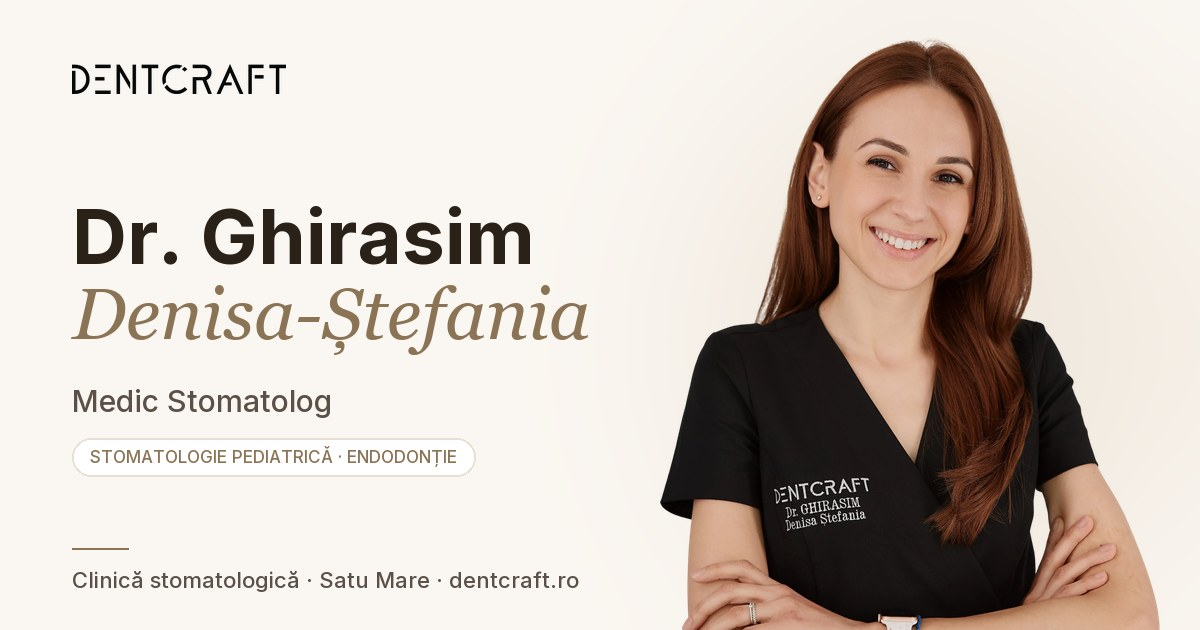
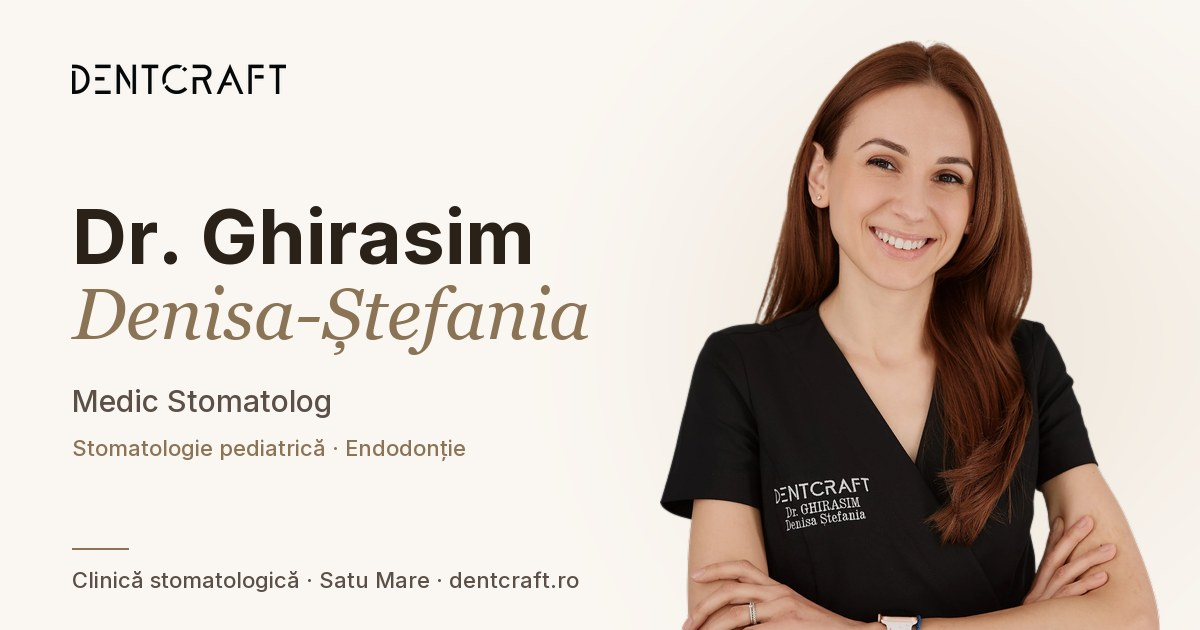
fix(og): cleaner team share cards, add Camelia Gherman
generate-team-og.py: resize cutouts in premultiplied alpha (no dark/light
fringe from transparent pixels), choke + sub-pixel feather the matte to
remove the pale halo of the old studio background, alpha_composite onto
the cream canvas. Specializations as a sentence-case line instead of an
uppercase pill. New card for camelia-gherman (cutout existed) and wired
via TEAM_OG_SLUGS.

Changed region(s): [[0.0617, 0.6937, 0.4008, 0.754]]

diff --git a/src/lib/fallback-team.ts b/src/lib/fallback-team.ts
@@ -41,6 +41,7 @@ export const TEAM_OG_SLUGS = new Set([
   'denisa-ghirasim',
   'stefana-cozma',
   'remus-fernea',
+  'camelia-gherman',
 ])
 
 // Fallback team members data - used when Sanity has no data

diff --git a/scripts/generate-team-og.py b/scripts/generate-team-og.py
@@ -46,6 +46,8 @@ DOCTORS = [
      "Ortodonție · Aparate dentare", "/images/team/dr-cozma-stefana.webp"),
     ("remus-fernea", "Dr. Fernea", "Remus", "Medic Stomatolog",
      "Profilaxie GBT · Odontoterapie · Protetică", "/images/team/dr-fernea-remus.webp"),
+    ("camelia-gherman", "Gherman", "Camelia", "Asistent Medical Coordonator",
+     "Asistență stomatologică · Igienă orală", "/images/team/asistent-gherman-camelia.webp"),
 ]
 
 
@@ -65,6 +67,24 @@ def cutout(photo_path: Path) -> Image.Image:
     return im.crop(bbox) if bbox else im
 
 
+def resize_premultiplied(im: Image.Image, size) -> Image.Image:
+    """Resize RGBA in premultiplied space so fully transparent pixels (often
+    stored as black or white) don't bleed into the edge as a dark/light fringe."""
+    return im.convert("RGBa").resize(size, Image.LANCZOS).convert("RGBA")
+
+
+def defringe(im: Image.Image) -> Image.Image:
+    """Choke the faint outer ring of the matte: semi-transparent edge pixels in
+    the source cutouts still carry the old studio background, which reads as a
+    pale halo on cream. Levels-crush alpha below ~16% and re-stretch the rest."""
+    r, g, b, a = im.split()
+    lo = 40
+    a = a.point(lambda v: 0 if v <= lo else min(255, round((v - lo) * 255 / (255 - lo - 20))))
+    # Sub-pixel feather softens stair-stepped mattes (e.g. hair) without a visible glow
+    a = a.filter(ImageFilter.GaussianBlur(0.6))
+    return Image.merge("RGBA", (r, g, b, a))
+
+
 def render(doc, fonts):
     slug, bold, italic, role, specs, photo = doc
     canvas = Image.new("RGB", (W, H), BG)
@@ -82,9 +102,13 @@ def render(doc, fonts):
     crop_h = min(person.height, int(person.width * box_h / box_w))
     person = person.crop((0, 0, person.width, crop_h))
     scale = min(box_w / person.width, box_h / person.height)
-    person = person.resize((int(person.width * scale), int(person.height * scale)), Image.LANCZOS)
+    person = resize_premultiplied(person, (int(person.width * scale), int(person.height * scale)))
+    person = defringe(person)
     px = box_x + (box_w - person.width) // 2
-    canvas.paste(person, (px, H - person.height), person)
+    # alpha_composite (not paste) so partial alpha blends with the cream correctly
+    base = canvas.convert("RGBA")
+    base.alpha_composite(person, (px, H - person.height))
+    canvas = base.convert("RGB")
 
     d = ImageDraw.Draw(canvas)
     x = 72
@@ -92,8 +116,11 @@ def render(doc, fonts):
     # Logo
     logo = Image.open(LOGO).convert("RGBA")
     lh = 30
-    logo = logo.resize((int(logo.width * lh / logo.height), lh), Image.LANCZOS)
-    canvas.paste(logo, (x, 64), logo)
+    logo = resize_premultiplied(logo, (int(logo.width * lh / logo.height), lh))
+    base = canvas.convert("RGBA")
+    base.alpha_composite(logo, (x, 64))
+    canvas = base.convert("RGB")
+    d = ImageDraw.Draw(canvas)
 
     text_w = 600
     f_bold = fit_font(fonts["bold"], bold, text_w, 76)
@@ -105,12 +132,11 @@ def render(doc, fonts):
     f_role = fit_font(fonts["medium"], role, 560, 30, 22)
     d.text((x, y), role, font=f_role, fill=MUTED)
 
-    # Specializations pill
-    f_spec = fit_font(fonts["medium"], specs.upper(), text_w - 40, 17, 13)
-    tw = f_spec.getlength(specs.upper())
-    py = y + f_role.size + 26
-    d.rounded_rectangle((x, py, x + tw + 36, py + 38), radius=19, fill=(255, 255, 255), outline=BORDER, width=2)
-    d.text((x + 18, py + 19), specs.upper(), font=f_spec, fill=ACCENT, anchor="lm")
+    # Specializations: quiet sentence-case line (matches the profile page list,
+    # no uppercase pill)
+    f_spec = fit_font(fonts["medium"], specs, text_w - 40, 22, 16)
+    py = y + f_role.size + 22
+    d.text((x, py), specs, font=f_spec, fill=ACCENT)
 
     # Footer
     f_foot = ImageFont.truetype(fonts["medium"], 22)
